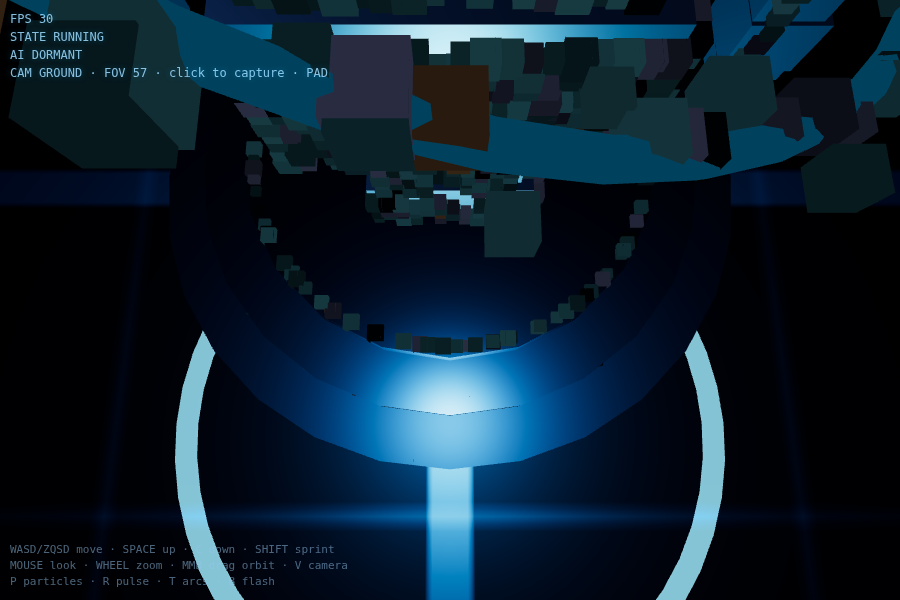
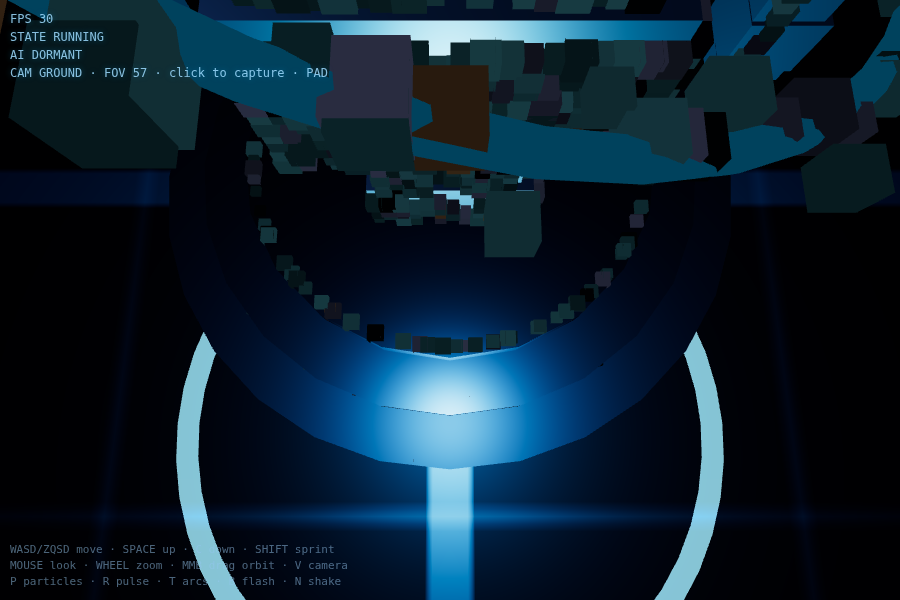
M7.5: impulse camera shake — impulse-decay energy consumed by CAMERA (Key N, capped at CFG.input.shakeCap, fresh transient offset per frame, idle no-op, heap flat)
Smoke M7.5 section green: registration, idle no-op, Key N offset
bounded by shakeAmp × energy and varying frame to frame, monotone
decay to exactly 0 with camera back exactly on the pose, 10 rapid
re-triggers hold at the cap (never accumulate), shake(10) clamps /
negative no-op, heap flat. No screenshot gate — 0.22 m offset is
sub-pixel, analytic checks are strictly stronger.

diff --git a/index.html b/index.html
@@ -220,6 +220,8 @@ const CFG = {
     pitchClamp: { ground: Math.PI * 0.47, cine: Math.PI * 0.485 },
     shakeDecay: 2.4,          // energy/s
     shakeAmp: 0.22,           // metres (energy 1.0 ≈ strong hit)
+    shakeCap: 1.5,            // max energy — repeated triggers never accumulate past this
+    shakeImpulse: 1.0,       // energy added by the manual dev trigger (Key N)
   },
   lights: {
     hemiSky: 0x35507e,
@@ -564,6 +566,7 @@ const INPUT = {
   pulseTrigger: false,        // R edge — dev trigger: FX.pulse ahead
   arcTrigger: false,          // T edge — dev trigger: FX arcs (sub↔sub, creature→ring)
   flashTrigger: false,        // B edge — dev trigger: FX.flash (screen flash)
+  shakeTrigger: false,        // N edge — dev trigger: CAMERA.shake impulse
 
   pad: {
     connected: false,
@@ -582,6 +585,7 @@ const INPUT = {
       if (e.code === 'KeyR' && !e.repeat) INPUT.pulseTrigger = true;
       if (e.code === 'KeyT' && !e.repeat) INPUT.arcTrigger = true;
       if (e.code === 'KeyB' && !e.repeat) INPUT.flashTrigger = true;
+      if (e.code === 'KeyN' && !e.repeat) INPUT.shakeTrigger = true;
       INPUT.keys.add(e.code);
       if (e.code === 'Space') e.preventDefault();
     });
@@ -745,9 +749,12 @@ const CAMERA = {
     CAMERA.fov = camera.fov;
   },
 
-  /* Public shake API: impulse decay, consumed inside update. */
+  /* Public shake API: impulse decay, consumed inside update.
+   * M7.5 — energy clamps to CFG.input.shakeCap ⇒ repeated triggers
+   * accumulate up to the cap and then hold (never run away). */
   shake(intensity = 0.5) {
-    CAMERA.shakeEnergy = Math.min(1.5, CAMERA.shakeEnergy + Math.max(0, intensity));
+    CAMERA.shakeEnergy =
+      Math.min(CFG.input.shakeCap, CAMERA.shakeEnergy + Math.max(0, intensity));
   },
 
   setMode(mode) {
@@ -785,6 +792,15 @@ const CAMERA = {
     // look (mouse px + gamepad pseudo-px)
     const lookX = INPUT.look.x, lookY = INPUT.look.y, zoomN = INPUT.zoom;
     INPUT.look.x = 0; INPUT.look.y = 0; INPUT.zoom = 0;
+
+    /* dev trigger (Key N edge from INPUT): strong shake impulse —
+     * M7.5. The system itself is the impulse-decay energy below:
+     * _applyShake adds a fresh transient offset each frame (never
+     * written into the pose), _decayShake drains it to exactly 0. */
+    if (INPUT.shakeTrigger) {
+      INPUT.shakeTrigger = false;
+      CAMERA.shake(L.shakeImpulse);
+    }
 
     if (INPUT.modeSwitch) {
       INPUT.modeSwitch = false;
@@ -3507,7 +3523,7 @@ const PARTS = {
 
 /* ==================================================================== *
  * FX — pulse (M7.2) + electrical arcs (M7.3) + screen flash (M7.4);
- *     later: shake (M7.5)
+ *     camera shake (M7.5) lives in CAMERA — it is consumed there
  *
  *  - FX.pulse(origin, radius, color): expanding ground ring on ONE
  *    shared InstancedMesh (per-instance color = tint × fade on the
@@ -4484,7 +4500,7 @@ const HUD = {
     HUD.hintEl.textContent =
       'WASD/ZQSD move · SPACE up · C down · SHIFT sprint\n' +
       'MOUSE look · WHEEL zoom · MMB drag orbit · V camera\n' +
-      'P particles · R pulse · T arcs · B flash';
+      'P particles · R pulse · T arcs · B flash · N shake';
   },
 
   update(dt) {

diff --git a/PLAN.md b/PLAN.md
@@ -59,7 +59,7 @@ smoke-test evidence.
 | **M7.2** ✅ | `FX.pulse(origin, radius, color)`: expanding instanced ring mesh + light-intensity ramp (+ audio hook once M11 lands) | Manual key fires a visible pulse; nothing allocated; idle = zero draw calls added |
 | **M7.3** ✅ | Animated electrical arcs: Line segments regenerated every N frames between anchors (substation→substation, creature→ring) | Manual key sparks arcs between two substations and creature→ring; regen is frame-cheap |
 | **M7.4** ✅ | Screen-space flash: overlay-scene additive plane (or DOM div) driven by `FX.flash(intensity)` | Manual key flashes screen; decays to zero; costs nothing idle |
-| **M7.5** | Camera shake: impulse-decay system consumed by `CAMERA` | Manual key shakes camera with clean decay to still; never accumulates |
+| **M7.5** ✅ | Camera shake: impulse-decay system consumed by `CAMERA` | Manual key shakes camera with clean decay to still; never accumulates |
 | **M8.1** | Night sky: gradient sky dome (big sphere, canvas/shader texture), stars, faint aurora band | Night mood readable from street level; dome correct from street, orbit, and far fly |
 | **M8.2** | Fog depth tune + zone-tinted haze (cyan core / warm avenues) via fog color lerp | Depth readable at 500 m; zone tint visible flying across zones |
 | **M8.3** | Volumetric-ish light shafts: a few additive cone/cylinder meshes from key spires + creature core (only when near / during awakening) | Shafts visible near spire, absent far away (no permanent draw calls) |
@@ -418,10 +418,29 @@ pools never allocate per frame.
   noise, not a regression).
 
 #### M7.5 — Impulse camera shake
-- [ ] Impulse-decay shake system consumed by `CAMERA`.
+- [x] Impulse-decay shake system consumed by `CAMERA`.
 - **Test:** manual key shakes camera, decays cleanly to still, never
       accumulates under repeated triggers.
 - **Commit when:** shake verified.
+- **Verified:** smoke M7.5 section green — the system is the impulse-
+  decay energy scalar on `CAMERA` (no pool, no mesh, no material ⇒
+  idle cost structurally zero: 0 energy ⇒ `_applyShake` early-returns,
+  camera position untouched — verified); Key `N` (`INPUT.shakeTrigger`,
+  consumed in `CAMERA.update`) fires `CAMERA.shake(CFG.input.shakeImpulse)`
+  (1.0) ⇒ camera position offset from the deterministic still pose,
+  bounded by `shakeAmp × energy` at every sampled frame, and the offset
+  magnitude varies frame to frame (fresh transient offset each frame,
+  never written into `CAMERA.pos`); decay monotone to exactly 0 with the
+  camera back EXACTLY on the pose (off === 0); never accumulates — 10
+  rapid re-triggers hold at `CFG.input.shakeCap` (1.5, moved out of the
+  hardcoded cap into `CFG.input`), `shake(10)` clamps to the cap, negative
+  is a no-op; heap flat across the whole sequence. No screenshot gate:
+  a 0.22 m offset is sub-pixel at every deterministic pose, so the
+  analytic checks are strictly stronger than a picture. Note: the
+  pre-existing M6.2 "heap flat" smoke check flakes in this headless
+  environment (~2.6–2.7 MB vs the 2 MB bound) — re-verified to fail at
+  the pre-M7.5 baseline too (1 FAIL / 2 PASS in 3 baseline runs),
+  environmental GC noise, not an M7.5 regression.
 
 **Phase done-when:** every effect has a manual trigger key and costs
 nothing while idle.

diff --git a/brain/pages/m75-camera-shake.md b/brain/pages/m75-camera-shake.md
@@ -1,0 +1,33 @@
+---
+id: m75-camera-shake
+title: "M7.5 camera shake: impulse decay consumed by CAMERA (Key N, capped, idle no-op)"
+category: decision
+status: active
+tags: [m7, fx, shake, camera]
+created: "2026-09-16T01:38:35"
+updated: "2026-09-16T01:39:19"
+---
+
+<!-- compiled_truth -->
+## Decided
+
+- M7.5 completes the camera-shake contract: the system is the impulse-decay energy scalar that already lives on `CAMERA` (since M1) — `CAMERA.shakeEnergy`, drained by `_decayShake` (linear, `−dt × CFG.input.shakeDecay`, to exactly 0) and consumed by `_applyShake`, which recomputes a FRESH transient `camera.position` offset every frame and never writes into `CAMERA.pos` ⇒ nothing accumulates into the pose, and 0 energy ⇒ `_applyShake` early-returns ⇒ idle cost is structurally zero (no pool, no mesh, no material, no draw calls).
+- M7.5's delta: manual dev trigger Key `N` (`INPUT.shakeTrigger`, consumed in `CAMERA.update` — the "consumed by CAMERA" seam) fires `CAMERA.shake(CFG.input.shakeImpulse)` (1.0). The previously hardcoded 1.5 cap moved to `CFG.input.shakeCap` (repeated triggers accumulate up to the cap and then hold — never run away), and `CFG.input.shakeImpulse` is the manual-trigger energy. HUD hint now reads `P particles · R pulse · T arcs · B flash · N shake`.
+- `shake(intensity)` semantics: adds `max(0, intensity)` clamped to `shakeCap`; ≤ 0 is a no-op.
+- No screenshot gate: a 0.22 m offset (shakeAmp 1.0-energy) is sub-pixel at every deterministic pose, so the smoke M7.5 section verifies analytically — strictly stronger than a picture: registration (tunables/API/energy 0/trigger idle); idle no-op (`_applyShake` at 0 energy leaves `camera.position` untouched); Key N ⇒ camera offset from the deterministic still pose, bounded by `shakeAmp × energy` at every sampled frame, and the offset magnitude varies frame to frame (fresh offset, real motion); decay monotone to exactly 0 with `camera.position` back EXACTLY on `CAMERA.pos` (off === 0); 10 rapid re-triggers hold at `shakeCap` (never exceed); `shake(10)` clamps to the cap, negative no-op; heap flat.
+- Environment note: the pre-existing M6.2 "heap flat with the fleet alive" smoke check flakes in this headless env (~2.6–2.7 MB delta vs the 2 MB bound) — re-verified to fail at the pre-M7.5 baseline too (1 FAIL / 2 PASS in 3 baseline runs), environmental GC noise, not an M7.5 regression.
+
+
+## Timeline
+
+- time: 2026-09-16T01:38:35
+  kind: decision
+  summary: "Created this page: M7.5 camera shake: impulse decay consumed by CAMERA (Key N, capped, idle no-op)"
+  source: created via brain create-page
+  affects: [m75-camera-shake]
+
+- time: 2026-09-16T01:39:19
+  kind: decision
+  summary: "Created this page: M7.5 camera shake — impulse decay in CAMERA, Key N dev trigger, capped energy, idle no-op"
+  source: M7.5 implementation
+  affects: [m75-camera-shake]

diff --git a/brain/index.md b/brain/index.md
@@ -1,6 +1,6 @@
 # Brain Index
 
-_Auto-generated. Last updated 2026-09-15T21:58:18.368Z._
+_Auto-generated. Last updated 2026-09-15T22:39:19.034Z._
 
 - [entity-system-m5](pages/entity-system-m5.md) — category: decision | tags: [entity, m5, creature, instancing] | ENTITY is the 6th system in the fixed boot order (INPUT → CAMERA → KIT → WORLD → **ENTITY** → HUD), registered between WORLD and HUD in `ind
 - [m2-material-kit](pages/m2-material-kit.md) — category: decision | tags: [kit, materials, draw-calls, three] | M2's `KIT` system is the shared foundation every later visual milestone builds on:
@@ -12,6 +12,7 @@ _Auto-generated. Last updated 2026-09-15T21:58:18.368Z._
 - [m72-fx-pulse](pages/m72-fx-pulse.md) — category: decision | tags: [m7, fx, pulse, pool, tier] | ## Decided
 - [m73-fx-arcs](pages/m73-fx-arcs.md) — category: decision | tags: [m7, fx, arcs, pool, tier] | ## Decided
 - [m74-fx-flash](pages/m74-fx-flash.md) — category: decision | tags: [m7, fx, flash, overlay] | ## Decided
+- [m75-camera-shake](pages/m75-camera-shake.md) — category: decision | tags: [m7, fx, shake, camera] | ## Decided
 - [near-layer-detail-pass](pages/near-layer-detail-pass.md) — category: decision | tags: [m4, detail, instancing] | ## Decision
 - [pi-runner-plan-format](pages/pi-runner-plan-format.md) — category: decision | tags: [plan, pi-runner, formatting] | The `## Milestones` section of `PLAN.md` must use the same format as `.
 - [smoke-harness-dev-tooling](pages/smoke-harness-dev-tooling.md) — category: decision | tags: [testing, smoke, playwright, tooling] | The smoke harness lives in `smoke/` (dev tooling only, not part of the product): `node smoke/smoke.mjs [url]` serves the project root on :83
